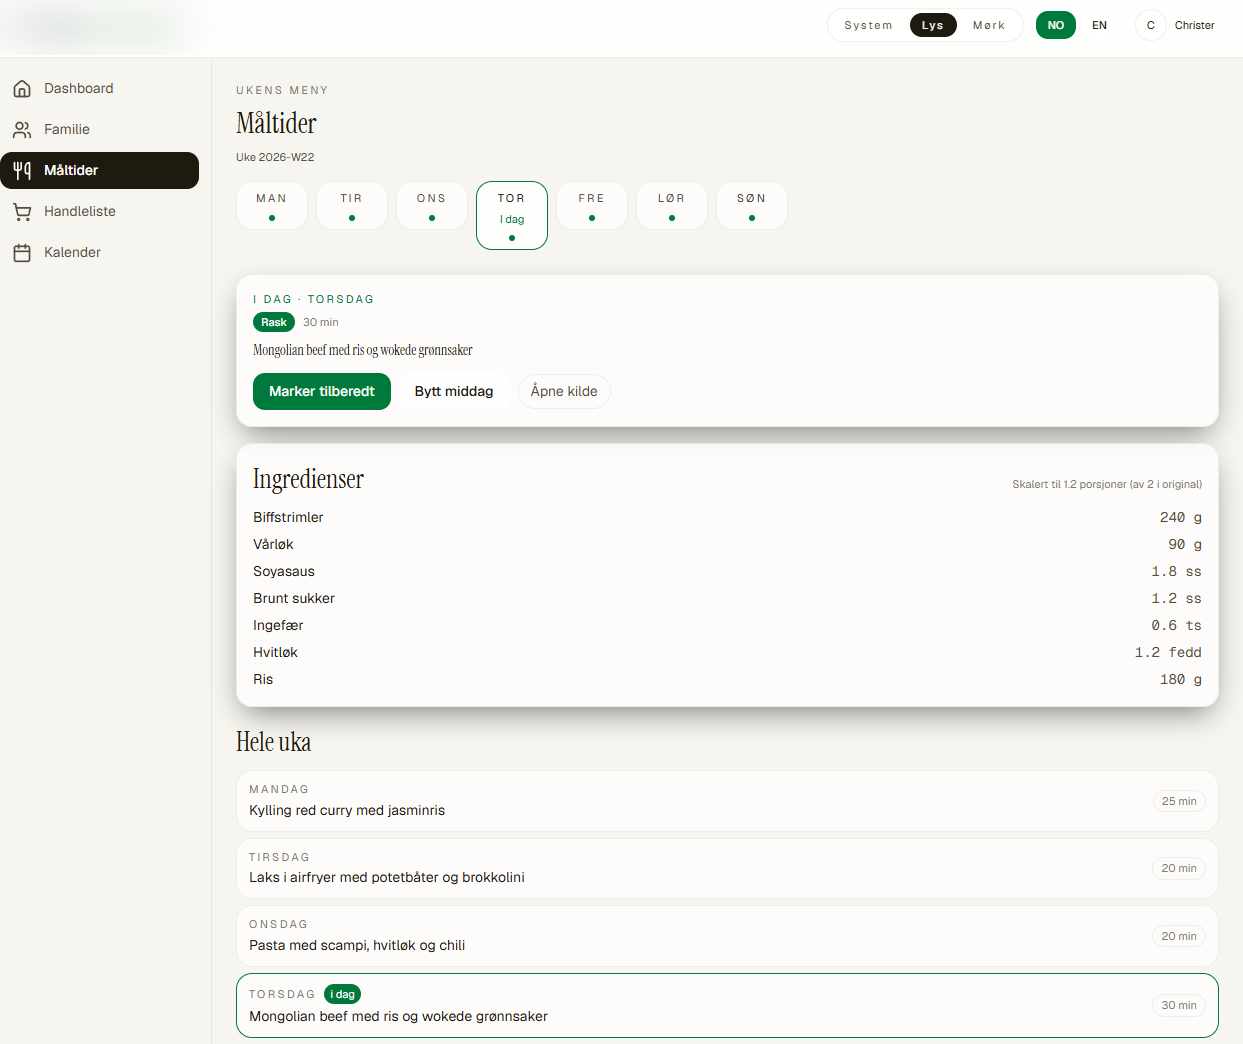
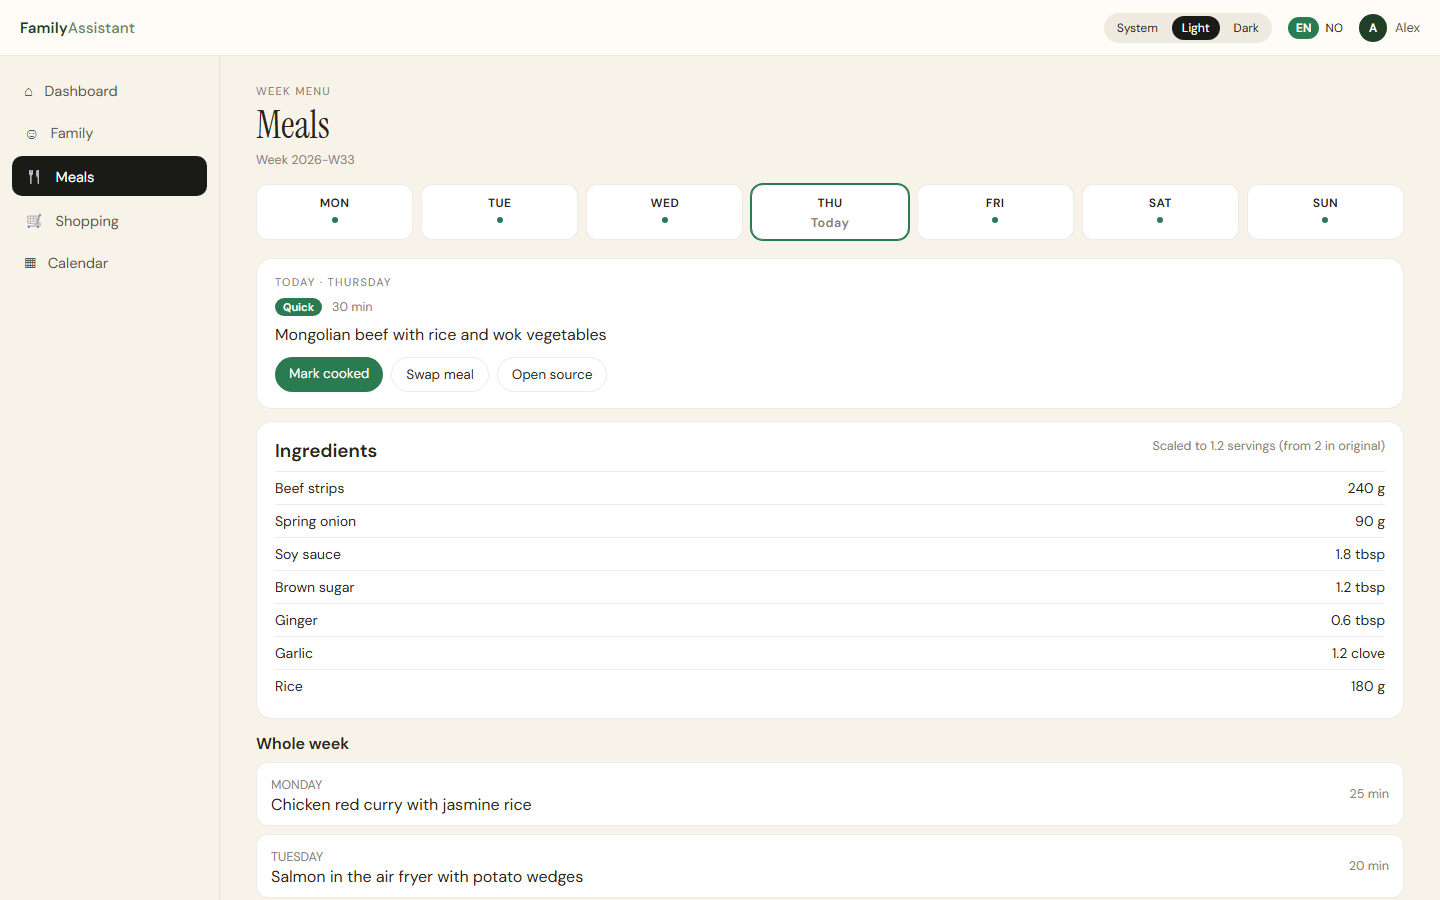
docs: replace Norwegian product screenshots with English UI captures

diff --git a/docs/screenshots/_capture.html b/docs/screenshots/_capture.html
@@ -55,7 +55,10 @@
         width: 900px;
         height: 1100px;
       }
-      #dashboard {
+      #dashboard,
+      #meals,
+      #shopping,
+      #pantry {
         width: 1440px;
         height: 900px;
       }
@@ -269,6 +272,129 @@
         padding: 3px 8px;
         font-weight: 600;
       }
+      .days {
+        display: flex;
+        gap: 8px;
+        margin: 16px 0 18px;
+      }
+      .day {
+        flex: 1;
+        background: #fff;
+        border: 1px solid var(--stroke);
+        border-radius: 12px;
+        padding: 10px 0 8px;
+        text-align: center;
+        font-size: 12px;
+        font-weight: 600;
+        letter-spacing: 0.04em;
+      }
+      .day small {
+        display: block;
+        width: 6px;
+        height: 6px;
+        border-radius: 50%;
+        background: var(--mint);
+        margin: 6px auto 0;
+      }
+      .day.today {
+        border-color: var(--mint);
+        box-shadow: 0 0 0 1px var(--mint);
+      }
+      .hero,
+      .panel {
+        background: #fff;
+        border: 1px solid var(--stroke);
+        border-radius: 16px;
+        padding: 16px 18px;
+        margin-bottom: 12px;
+      }
+      .badge {
+        display: inline-block;
+        background: var(--mint);
+        color: #fff;
+        border-radius: 999px;
+        font-size: 11px;
+        font-weight: 600;
+        padding: 2px 8px;
+        margin-right: 6px;
+      }
+      .row {
+        display: flex;
+        justify-content: space-between;
+        gap: 16px;
+        padding: 7px 0;
+        font-size: 14px;
+        border-top: 1px solid var(--stroke);
+      }
+      .row:first-child {
+        border-top: 0;
+      }
+      .muted {
+        color: var(--text-3);
+        font-size: 12.5px;
+      }
+      .toggle {
+        display: flex;
+        background: #efeae0;
+        border-radius: 999px;
+        padding: 3px;
+        margin-bottom: 18px;
+      }
+      .toggle span {
+        flex: 1;
+        text-align: center;
+        padding: 8px 12px;
+        border-radius: 999px;
+        font-size: 13.5px;
+        color: var(--text-2);
+      }
+      .toggle .on {
+        background: var(--ink);
+        color: #fff;
+      }
+      .item {
+        display: grid;
+        grid-template-columns: 22px 1fr auto;
+        gap: 10px;
+        align-items: start;
+        padding: 10px 0;
+        border-top: 1px solid var(--stroke);
+        font-size: 14px;
+      }
+      .item:first-of-type {
+        border-top: 0;
+      }
+      .dot {
+        width: 16px;
+        height: 16px;
+        border: 1.5px solid #c8c2b6;
+        border-radius: 50%;
+        margin-top: 3px;
+      }
+      .ghost-btn {
+        border: 1px solid var(--stroke);
+        background: #fff;
+        border-radius: 999px;
+        padding: 4px 10px;
+        font-size: 12px;
+        color: var(--text-2);
+      }
+      .week-row {
+        background: #fff;
+        border: 1px solid var(--stroke);
+        border-radius: 12px;
+        padding: 10px 14px;
+        margin-bottom: 8px;
+        display: flex;
+        justify-content: space-between;
+        align-items: center;
+      }
+      .week-row.today {
+        border-color: var(--mint);
+      }
+      main.scroll {
+        overflow: hidden;
+      }
     </style>
   </head>
   <body>
@@ -349,6 +475,160 @@
             <span class="pill">Add meal</span>
             <span class="pill">New chore</span>
             <span class="pill">Add to shopping list</span>
+          </div>
+        </main>
+      </div>
+    </section>
+
+    <section id="meals" class="screen">
+      <div class="app">
+        <header class="top">
+          <div class="wordmark" style="margin: 0"><b>Family</b><span>Assistant</span></div>
+          <div style="display: flex; align-items: center; gap: 16px">
+            <div class="seg"><i>System</i><i class="on">Light</i><i>Dark</i></div>
+            <div class="lang"><span class="on">EN</span> NO</div>
+            <div class="chip"><span class="avatar">A</span> Alex</div>
+          </div>
+        </header>
+        <aside>
+          <div class="nav-item">⌂ &nbsp; Dashboard</div>
+          <div class="nav-item">☺ &nbsp; Family</div>
+          <div class="nav-item active">🍴 &nbsp; Meals</div>
+          <div class="nav-item">🛒 &nbsp; Shopping</div>
+          <div class="nav-item">▦ &nbsp; Calendar</div>
+        </aside>
+        <main class="scroll">
+          <p class="eyebrow">Week menu</p>
+          <h1 class="serif" style="font-size: 38px; margin-bottom: 4px">Meals</h1>
+          <p class="muted" style="margin: 0 0 4px">Week 2026-W33</p>
+          <div class="days">
+            <div class="day">MON<small></small></div>
+            <div class="day">TUE<small></small></div>
+            <div class="day">WED<small></small></div>
+            <div class="day today">THU<div class="muted" style="margin-top: 4px">Today</div></div>
+            <div class="day">FRI<small></small></div>
+            <div class="day">SAT<small></small></div>
+            <div class="day">SUN<small></small></div>
+          </div>
+          <div class="hero">
+            <p class="eyebrow">Today · Thursday</p>
+            <p style="margin: 0 0 8px"><span class="badge">Quick</span> <span class="muted">30 min</span></p>
+            <p style="margin: 0 0 12px; font-size: 16px">Mongolian beef with rice and wok vegetables</p>
+            <div class="pills" style="margin: 0">
+              <span class="pill" style="background: var(--mint); color: #fff; border: 0">Mark cooked</span>
+              <span class="pill">Swap meal</span>
+              <span class="pill">Open source</span>
+            </div>
+          </div>
+          <div class="panel">
+            <div style="display: flex; justify-content: space-between">
+              <h3 style="margin: 0 0 8px">Ingredients</h3>
+              <span class="muted">Scaled to 1.2 servings (from 2 in original)</span>
+            </div>
+            <div class="row"><span>Beef strips</span><span>240 g</span></div>
+            <div class="row"><span>Spring onion</span><span>90 g</span></div>
+            <div class="row"><span>Soy sauce</span><span>1.8 tbsp</span></div>
+            <div class="row"><span>Brown sugar</span><span>1.2 tbsp</span></div>
+            <div class="row"><span>Ginger</span><span>0.6 tbsp</span></div>
+            <div class="row"><span>Garlic</span><span>1.2 clove</span></div>
+            <div class="row"><span>Rice</span><span>180 g</span></div>
+          </div>
+          <p style="font-weight: 600; margin: 14px 0 8px">Whole week</p>
+          <div class="week-row"><div><span class="muted">MONDAY</span><br />Chicken red curry with jasmine rice</div><span class="muted">25 min</span></div>
+          <div class="week-row"><div><span class="muted">TUESDAY</span><br />Salmon in the air fryer with potato wedges</div><span class="muted">20 min</span></div>
+          <div class="week-row today"><div><span class="muted">THURSDAY</span> <span class="badge">Today</span><br />Mongolian beef with rice and wok vegetables</div><span class="muted">30 min</span></div>
+        </main>
+      </div>
+    </section>
+
+    <section id="shopping" class="screen">
+      <div class="app">
+        <header class="top">
+          <div class="wordmark" style="margin: 0"><b>Family</b><span>Assistant</span></div>
+          <div style="display: flex; align-items: center; gap: 16px">
+            <div class="seg"><i>System</i><i class="on">Light</i><i>Dark</i></div>
+            <div class="lang"><span class="on">EN</span> NO</div>
+            <div class="chip"><span class="avatar">A</span> Alex</div>
+          </div>
+        </header>
+        <aside>
+          <div class="nav-item">⌂ &nbsp; Dashboard</div>
+          <div class="nav-item">☺ &nbsp; Family</div>
+          <div class="nav-item">🍴 &nbsp; Meals</div>
+          <div class="nav-item active">🛒 &nbsp; Shopping</div>
+          <div class="nav-item">▦ &nbsp; Calendar</div>
+        </aside>
+        <main class="scroll">
+          <div class="toggle">
+            <span class="on">Shopping list</span>
+            <span>What do we have at home?</span>
+          </div>
+          <div style="display: flex; justify-content: space-between; align-items: flex-end">
+            <div>
+              <h1 class="serif" style="font-size: 38px; margin: 0 0 6px">Shopping list</h1>
+              <p class="muted" style="margin: 0">0 of 18 picked · 18 remaining · 742 kr</p>
+            </div>
+            <span class="pill">Generate from this week's meals</span>
+          </div>
+          <div class="panel" style="margin-top: 16px">
+            <p style="margin: 0 0 8px; font-weight: 600">Meat &amp; fish <span class="muted">7 remaining</span></p>
+            <div class="item"><span class="dot"></span><div>Chicken fillet<br /><span class="muted">1 pack (500 g) · For Chicken red curry with jasmine rice<br />You need 240 g</span></div><span>89 kr</span></div>
+            <div class="item"><span class="dot"></span><div>Salmon fillet<br /><span class="muted">1 pack (400 g) · For Salmon in the air fryer<br />You need 240 g</span></div><span>159 kr</span></div>
+            <div class="item"><span class="dot"></span><div>Frozen scampi<br /><span class="muted">1 pack (300 g) · For Pasta with scampi, garlic and chilli<br />You need 180 g</span></div><span>99 kr</span></div>
+            <div class="item"><span class="dot"></span><div>Beef strips<br /><span class="muted">1 pack (400 g) · For Mongolian beef<br />You need 240 g</span></div><span>129 kr</span></div>
+          </div>
+          <div class="panel">
+            <p style="margin: 0 0 8px; font-weight: 600">Dry goods &amp; other <span class="muted">5 remaining</span></p>
+            <div class="item"><span class="dot"></span><div>Red curry paste<br /><span class="muted">1 pack (400 g) · For Chicken red curry<br />You need 1.2 tbsp</span></div><span>39 kr</span></div>
+            <div class="item"><span class="dot"></span><div>Coconut milk<br /><span class="muted">1 can (400 ml) · For Chicken red curry<br />You need 240 ml</span></div><span>22 kr</span></div>
+            <div class="item"><span class="dot"></span><div>Jasmine rice<br /><span class="muted">1 pack (1 kg) · For 2 meals<br />You need 180 g</span></div><span>35 kr</span></div>
+          </div>
+          <div style="display: flex; gap: 8px; margin-top: 8px">
+            <input style="margin: 0" placeholder="What do you need?" />
+            <button class="btn btn-primary" style="width: auto; margin: 0; padding: 10px 18px" type="button">Add</button>
+          </div>
+        </main>
+      </div>
+    </section>
+
+    <section id="pantry" class="screen">
+      <div class="app">
+        <header class="top">
+          <div class="wordmark" style="margin: 0"><b>Family</b><span>Assistant</span></div>
+          <div style="display: flex; align-items: center; gap: 16px">
+            <div class="seg"><i>System</i><i class="on">Light</i><i>Dark</i></div>
+            <div class="lang"><span class="on">EN</span> NO</div>
+            <div class="chip"><span class="avatar">A</span> Alex</div>
+          </div>
+        </header>
+        <aside>
+          <div class="nav-item">⌂ &nbsp; Dashboard</div>
+          <div class="nav-item">☺ &nbsp; Family</div>
+          <div class="nav-item">🍴 &nbsp; Meals</div>
+          <div class="nav-item active">🛒 &nbsp; Shopping</div>
+          <div class="nav-item">▦ &nbsp; Calendar</div>
+        </aside>
+        <main class="scroll">
+          <div class="toggle">
+            <span>Shopping list</span>
+            <span class="on">What do we have at home?</span>
+          </div>
+          <div class="panel">
+            <p style="margin: 0; font-weight: 600">22 items at home</p>
+            <p class="muted" style="margin: 4px 0 0">0 running low · 3 with date</p>
+          </div>
+          <div class="panel">
+            <div style="display: flex; justify-content: space-between; margin-bottom: 6px">
+              <strong>Dry goods &amp; other</strong><span class="muted">16</span>
+            </div>
+            <div class="item"><span></span><div>Ajax all-purpose cleaner 1.5L<br /><span class="muted">1 bottle</span></div><span class="ghost-btn">Mark used</span></div>
+            <div class="item"><span></span><div>Hair conditioner 400ml<br /><span class="muted">1 bottle</span></div><span class="ghost-btn">Mark used</span></div>
+            <div class="item"><span></span><div>Basmati rice<br /><span class="muted">1000 g</span></div><span class="ghost-btn">Mark used</span></div>
+            <div class="item"><span></span><div>Brown sugar<br /><span class="muted">1000 g</span></div><span class="ghost-btn">Mark used</span></div>
+            <div class="item"><span></span><div>Deodorant<br /><span class="muted">2 pcs</span></div><span class="ghost-btn">Mark used</span></div>
+            <div class="item"><span></span><div>Shower soap 400ml<br /><span class="muted">1 bottle</span></div><span class="ghost-btn">Mark used</span></div>
+            <div class="item"><span></span><div>Coffee beans 500g<br /><span class="muted">1 bag</span></div><span class="ghost-btn">Mark used</span></div>
+            <div class="item"><span></span><div>Kitchen roll 4-pack<br /><span class="muted">4 rolls</span></div><span class="ghost-btn">Mark used</span></div>
           </div>
         </main>
       </div>

diff --git a/docs/screenshots/README.md b/docs/screenshots/README.md
@@ -6,12 +6,12 @@ Used by the root `README.md`. Keep file names stable so GitHub image URLs do not
 |---|---|
 | `00-welcome.png` | Welcome / first run |
 | `01-dashboard.png` | Signed-in home (English, light theme) |
-| `02-meals-weekplan.png` | Live meal planner (Norwegian UI) |
-| `03-shopping-list.png` | Live shopping list |
-| `04-pantry.png` | Live pantry inventory |
+| `02-meals-weekplan.png` | Weekly meal plan |
+| `03-shopping-list.png` | Shopping list |
+| `04-pantry.png` | Pantry inventory |
 | `05-login.png` | Username/password sign-in |
 
-`00`, `01` and `05` are captured from `_capture.html` (layout matched to the real tokens). `02`–`04` are from a live install.
+All six README shots are captured from `_capture.html` in English, using the same cream / mint / Instrument Serif look as the app.
 
 ## Capture
 

diff --git a/README.md b/README.md
@@ -31,7 +31,7 @@ Typical deploy: **Docker → Portainer → Raspberry Pi (or any host) → option
 
 ## Screenshots
 
-Welcome and sign-in (English). Meals, shopping and pantry below are from a live install (Norwegian UI — switch language in the header).
+All screens below use the English UI (switch to Norwegian in the header).
 
 <p align="center">
   <img src="docs/screenshots/00-welcome.png" alt="Welcome screen" width="360" />
